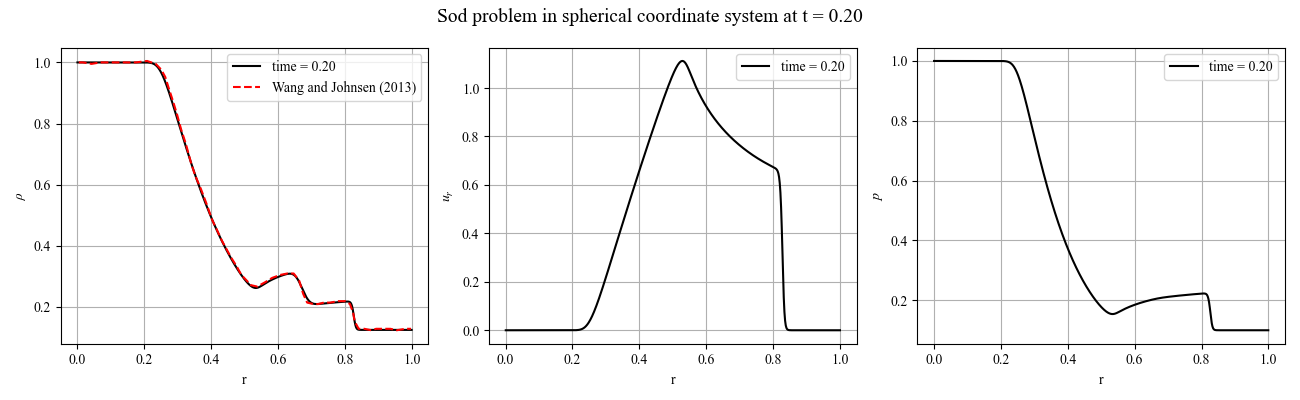
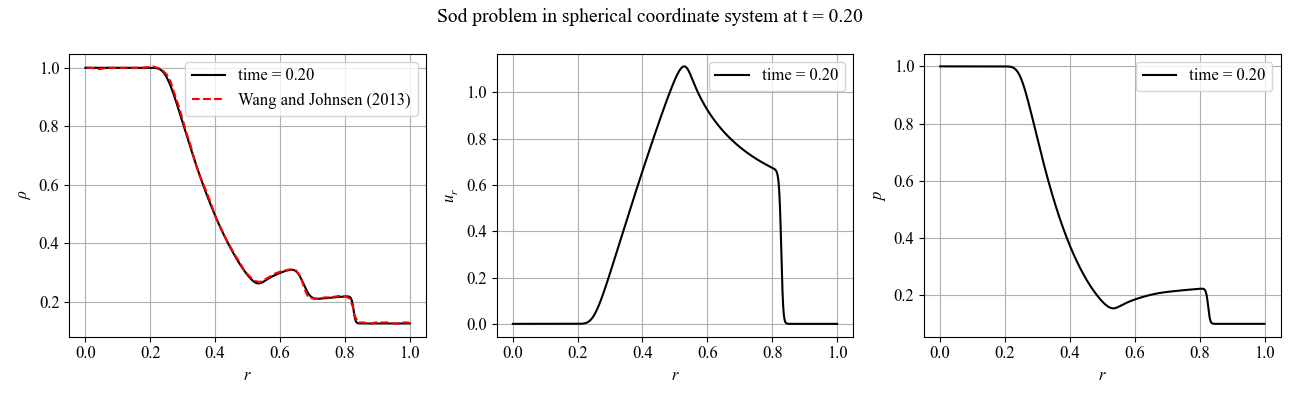
Water prop added

diff --git a/PengRobinson.py b/PengRobinson.py
@@ -99,10 +99,17 @@ class PengRobinson:
     
     def Compute_ideal_gas_prop(self,T):
         # --- NASA coefficients for CO2 (TP-2002-211556) ---
-        coeff_low  = np.array([3.85746029E+00, 4.41437026E-03, -2.21481404E-06,
-                            5.23490188E-10, -4.72084164E-14, -4.87591660E+04, 2.27163806E+01])
-        coeff_high = np.array([2.35677352E+00, 8.98459677E-03, -7.12356269E-06,
-                            2.45919022E-09, -1.43699548E-13, -4.83719697E+04, 9.90105222E+00])
+        # coeff_low  = np.array([3.85746029E+00, 4.41437026E-03, -2.21481404E-06,
+        #                     5.23490188E-10, -4.72084164E-14, -4.87591660E+04, 2.27163806E+01])
+        # coeff_high = np.array([2.35677352E+00, 8.98459677E-03, -7.12356269E-06,
+        #                     2.45919022E-09, -1.43699548E-13, -4.83719697E+04, 9.90105222E+00])
+        # T_mid = 1000.0  # K
+
+        # Water
+        coeff_low  = np.array([ 3.85746029E+00,  4.41437026E-03, -2.21481404E-06,
+                            5.23490188E-10, -4.72084164E-14, -4.87591660E+04,  2.27163806E+01 ])
+        coeff_high = np.array([ 2.35677352E+00,  8.98459677E-03, -7.12356269E-06,
+                            2.45919022E-09, -1.43699548E-13, -4.83719697E+04,  9.90105222E+00 ])
         T_mid = 1000.0  # K
         # --- Gas constant --- 
         R = self.R / self.Mw  # J/(kg*K)
@@ -153,11 +160,18 @@ if __name__ == "__main__":
     Pc = 7.3825e6
     omega = 0.225
     M = 44.01
+
+    #Water critical properties
+    Tc = 647.1 # K
+    Pc = 22.064e6
+    omega = 0.344
+    M = 18.015
+
     R = 8.314
-    P = 8.0e6
+    P = 0.1e6
     
     # Calculate density using Peng-Robinson EOS
-    T_pr = np.linspace(200, 400, 100)
+    T_pr = np.linspace(300, 400, 100)
     rho_pr = np.zeros_like(T_pr)
     cp_pr = np.zeros_like(T_pr)
     sos_pr = np.zeros_like(T_pr)
@@ -166,8 +180,6 @@ if __name__ == "__main__":
         rho_pr[i] = pr.Get_rho_from_P_and_T(P, T_pr[i])
         pr.Compute_cp_and_cv_from_rho_and_T(rho_pr[i], T_pr[i])
         p_comp = pr.Get_P_from_rho_and_T(rho_pr[i], T_pr[i])
-        if p_comp!=P:
-            print(f'Error: p_comp = {p_comp} != P = {P}')
         cp_pr[i] = pr.cp
         sos_pr[i] = pr.sound_speed
     
@@ -204,11 +216,11 @@ if __name__ == "__main__":
     cv_nist = np.array(cv_nist)
     # Create the plot
     plt.figure(figsize=(8, 6))
-    plt.plot(T_nist, rho_nist, 'b-', linewidth=2, label='NIST Data (8 MPa)')
+    # plt.plot(T_nist, rho_nist, 'b-', linewidth=2, label='NIST Data (8 MPa)')
     plt.plot(T_pr, rho_pr, 'r--', linewidth=2, label='Peng-Robinson EOS')
     plt.xlabel('Temperature (K)', fontsize=12)
     plt.ylabel('Density (kg/m³)', fontsize=12)
-    plt.xlim(220, 400)
+    # plt.xlim(220, 400)
     plt.title('CO₂ Density vs Temperature at 8 MPa', fontsize=14)
     plt.grid(True, alpha=0.3)
     plt.legend(fontsize=11)

diff --git a/Euler_energy.py b/Euler_energy.py
@@ -1,11 +1,6 @@
 import numpy as np
 import matplotlib.pyplot as plt
 
-"""This is a simple 1D linear advection FVM solver in spherical coordinate system by Sho Wada
-   Equation:
-   dphi/dt + 1/r^2 * d/dr(r^2 * ur * phi) = 0
-"""
-
 def main():
     """
     r is the grid locations, fr is the flux locations
@@ -87,7 +82,7 @@ def main():
     # Time loop starts here
     for itr in range(1,nt):
         time_step += 1
-        
+
         ## dt calc. with CFL 
         sound_speed = np.sqrt(gamma * p/rho)
         max_wave_speed = np.max(np.abs(ur) + sound_speed)
@@ -283,7 +278,7 @@ def plot_data(rho, rho_initial, ur, p, p_initial, time, r):
 
     # Set font to Times New Roman with size 20
     plt.rcParams['font.family'] = 'Times New Roman'
-    # plt.rcParams['font.size'] = 20
+    plt.rcParams['font.size'] = 12
 
     # Set math font to Times New Roman as well
     plt.rcParams['mathtext.fontset'] = 'custom'
@@ -301,7 +296,7 @@ def plot_data(rho, rho_initial, ur, p, p_initial, time, r):
     plt.plot(r, rho, 'k-', label=f'time = {time:.2f}')
     plt.plot(r_data,rho_data,'r--', label='Wang and Johnsen (2013)')
     # plt.plot(r, rho_initial, 'k-.', label='initial')
-    plt.xlabel('r')
+    plt.xlabel(r'$r$')
     plt.ylabel(r'$\rho$')
     plt.legend()
     plt.grid(True)
@@ -309,7 +304,7 @@ def plot_data(rho, rho_initial, ur, p, p_initial, time, r):
     # Plot velocity
     plt.subplot(1,3,2)
     plt.plot(r, ur, 'k-', label=f'time = {time:.2f}')
-    plt.xlabel('r')
+    plt.xlabel(r'$r$')
     plt.ylabel(r'$u_r$')
     plt.legend()
     plt.grid(True)
@@ -318,7 +313,7 @@ def plot_data(rho, rho_initial, ur, p, p_initial, time, r):
     plt.subplot(1,3,3)
     plt.plot(r, p, 'k-', label=f'time = {time:.2f}')
     # plt.plot(r, p_initial, 'k-.', label='initial')
-    plt.xlabel('r')
+    plt.xlabel(r'$r$')
     plt.ylabel(r'$p$')
     plt.legend()
     plt.grid(True)

diff --git a/NS_pr.py b/NS_pr.py
@@ -26,7 +26,7 @@ def main():
     """
 
     # Set up grids and time
-    nt = 1000      ## number of time steps
+    nt = 300      ## number of time steps
     nfr = 101      ## number of flux locations
     nr = nfr - 1   ## number of grid locations
     CFL = 0.4      ## CFL number to determine time step size
@@ -176,18 +176,31 @@ def main():
             rho_analytical[i] = ((r[i]-time[itr-1])/r[i])**2 * np.exp(- (r[i]-time[itr-1]-0.5)**2 / 0.1**2)
 
     # Plot the results
-    # plt.plot(r, p,'k-',label=f'time = {time[itr]:.2f}')
+    # Set font to Times New Roman with size 20
+    plt.rcParams['font.family'] = 'Times New Roman'
+    plt.rcParams['font.size'] = 12
+
+    # Set math font to Times New Roman as well
+    plt.rcParams['mathtext.fontset'] = 'custom'
+    plt.rcParams['mathtext.rm'] = 'Times New Roman'
+    plt.rcParams['mathtext.it'] = 'Times New Roman:italic'
+    plt.rcParams['mathtext.bf'] = 'Times New Roman:bold'
+    # plt.style.use(['science', 'high-vis'])
+
+    # Enable LaTeX-like text rendering (matplotlib's built-in mathtext)
+    plt.rcParams['text.usetex'] = False 
+    plt.plot(r, p,'k-')
     # plt.plot(r, p_initial,'k-.', label='initial')
-    plt.plot(r, rho,'k-',label=f'time = {time[itr]*1e12:.4f}')
-    plt.plot(r, rho_initial,'k-.', label='initial')
+    # plt.plot(r, rho,'k-')
+    # plt.plot(r, rho_initial,'k-.')
     if flag_analytic:
         plt.plot(r, rho_analytical,'r--', label='analytical')
-    plt.xlabel('r')
-    plt.ylabel('rho')
+    plt.xlabel(r'$r$')
+    plt.ylabel(r'$p$')
     # plt.ylabel('Pressure')
     plt.grid(True)
     plt.xlim(0, np.max(r))
-    plt.title('NS_PR equations in spherical coordinate system')
+    plt.title('NS equations with PR EOS in spherical coordinate system')
     plt.legend(loc='upper right')
     # plt.savefig(f'./data/Euler_rho_time_{time[itr]:.2f}.png')
     plt.show()

diff --git a/lin_adv.py b/lin_adv.py
@@ -25,7 +25,7 @@ def main():
     """
 
     # Set up grids and time
-    nt = 300       ## number of time steps
+    nt = 100       ## number of time steps
     nfr = 101      ## number of flux locations
     nr = nfr - 1   ## number of grid locations
     CFL = 0.5      ## CFL number to determine time step size
@@ -123,7 +123,7 @@ def compute_flux(ur_fL, phi_fL, ur_fR, phi_fR, fr):
    flux_upwind = np.zeros(nfr)
    flux_central = np.zeros(nfr)
    
-   flag_upwind = True
+   flag_upwind = False
    
    ### Assuming the advection speed is constant for now
    for i in range(nfr):
